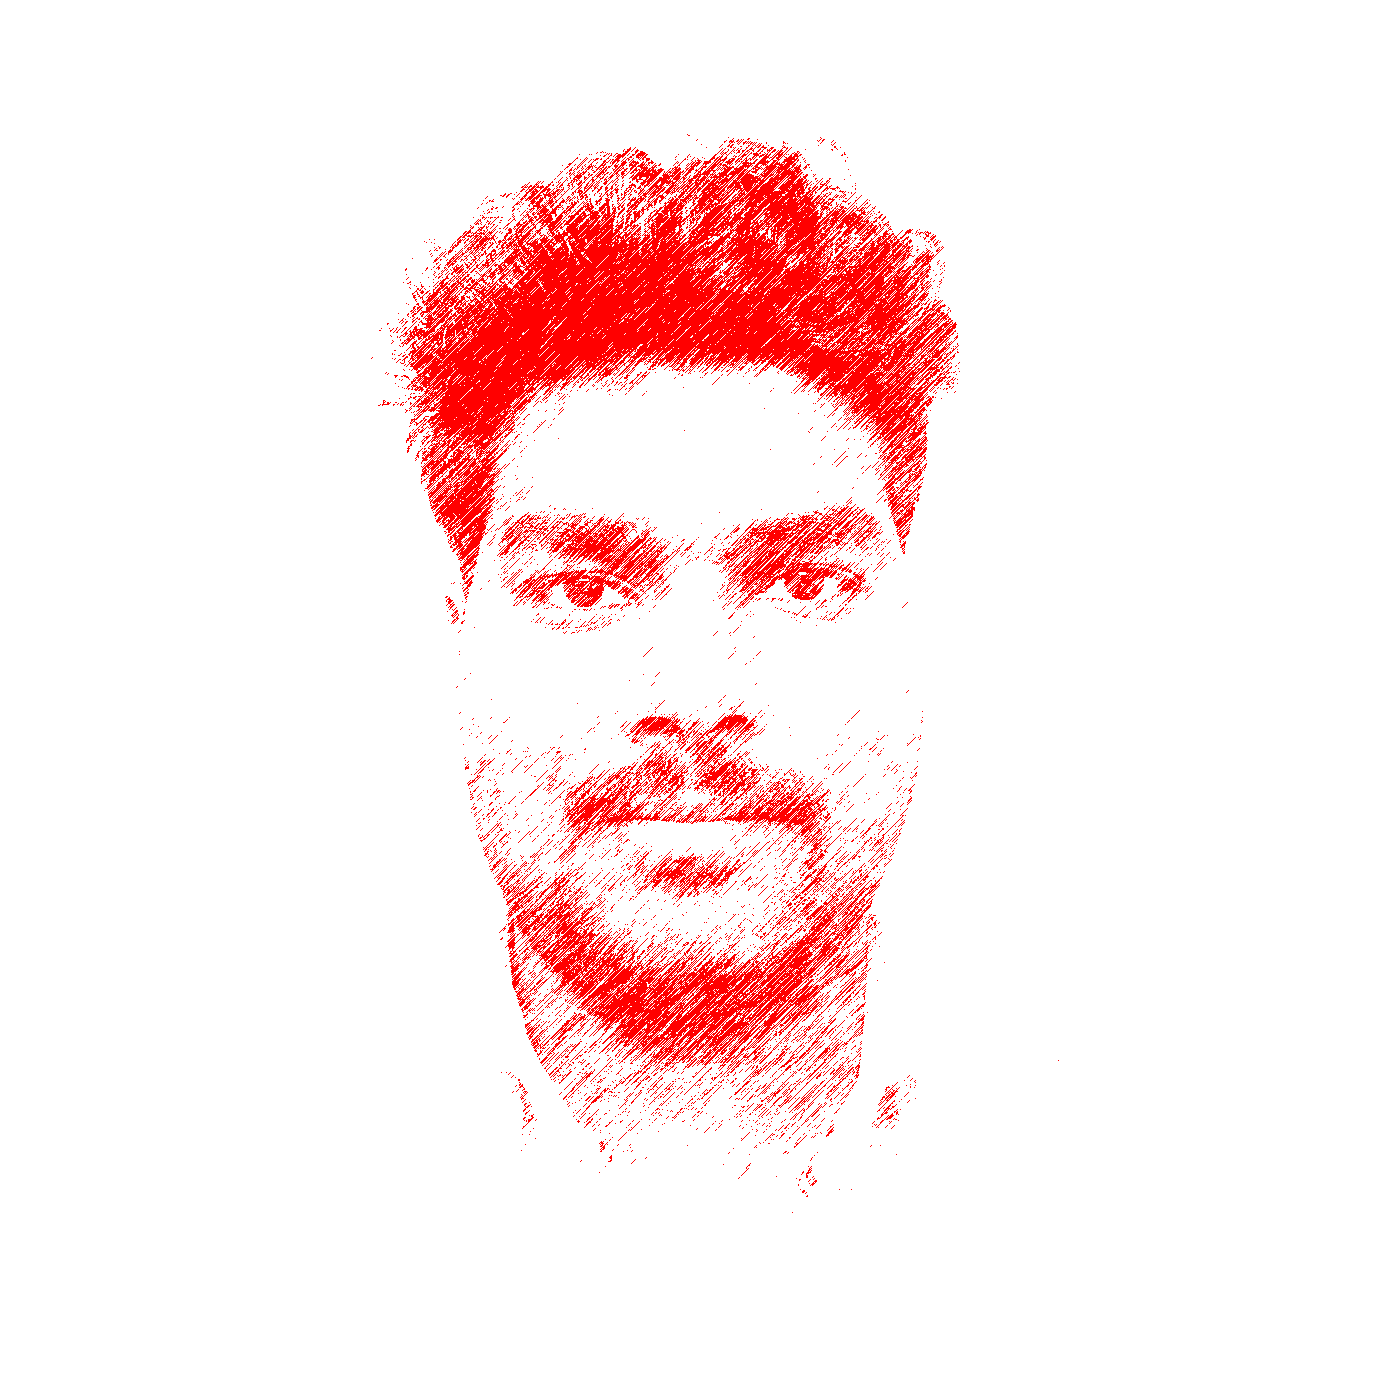
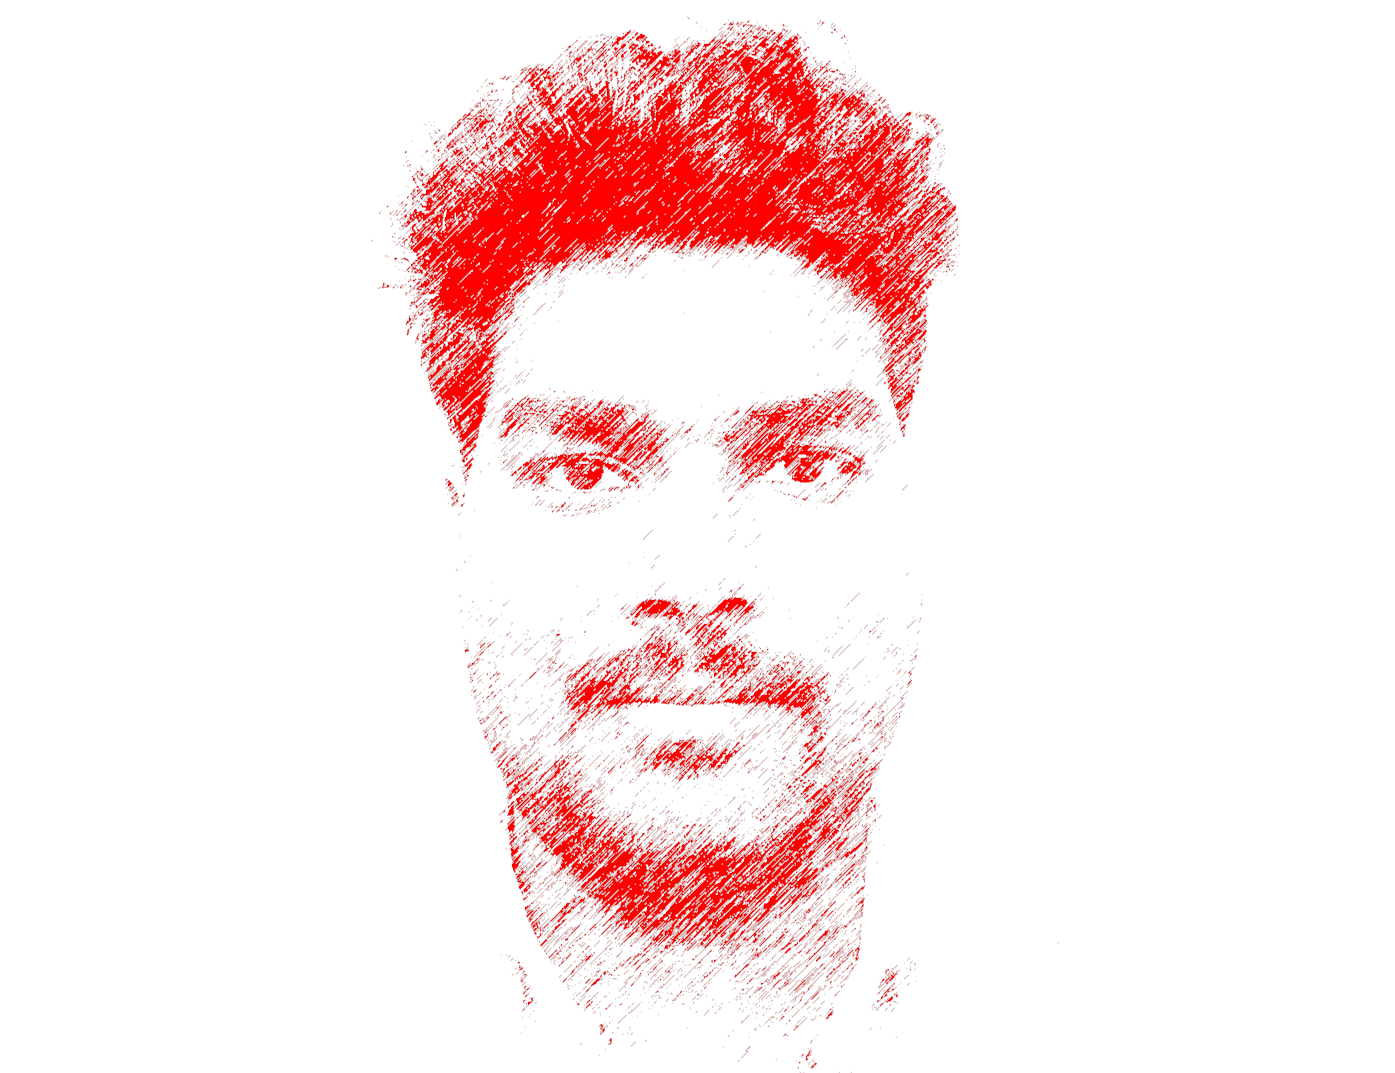
navbar and heroPage

Changed region(s): [[0.2774, 0.0, 0.709, 0.4921], [0.3391, 0.4921, 0.6473, 0.9534]]

diff --git a/src/components/Drawer.tsx b/src/components/Drawer.tsx
@@ -1,22 +1,22 @@
 const Drawer = () => {
   return (
     <div className="drawer lg:drawer-open">
-  <input id="my-drawer-2" type="checkbox" className="drawer-toggle" />
-  <div className="drawer-content flex flex-col items-center justify-center">
-    {/* Page content here */}
-    <label htmlFor="my-drawer-2" className="btn btn-primary drawer-button lg:hidden">
-      Open drawer
-    </label>
-  </div>
-  <div className="drawer-side">
-    <label htmlFor="my-drawer-2" aria-label="close sidebar" className="drawer-overlay"></label>
-    <ul className="menu bg-base-200 text-base-content min-h-full w-80 p-4">
-      {/* Sidebar content here */}
-      <li>Sidebar Item 1</li>
-      <li>Sidebar Item 2</li>
-    </ul>
-  </div>
-</div>
+      <input id="my-drawer-2" type="checkbox" className="drawer-toggle" />
+      <div className="drawer-content flex flex-col items-center justify-center">
+        {/* Page content here */}
+        <label htmlFor="my-drawer-2" className="btn btn-primary drawer-button lg:hidden">
+          Open drawer
+        </label>
+      </div>
+      <div className="drawer-side absolute top-0 left-0">
+        <label htmlFor="my-drawer-2" aria-label="close sidebar" className="drawer-overlay"></label>
+        <ul className="menu bg-base-200 text-base-content min-h-full w-80 p-4">
+          {/* Sidebar content here */}
+          <li>Sidebar Item 1</li>
+          <li>Sidebar Item 2</li>
+        </ul>
+      </div>
+    </div>
   )
 }
 

diff --git a/src/components/Herosection.tsx b/src/components/Herosection.tsx
@@ -1,0 +1,32 @@
+import { CgScrollH, CgScrollV } from "react-icons/cg"
+import { FaMouse } from "react-icons/fa"
+import { FaScrollTorah } from "react-icons/fa6"
+import { MdMouse } from "react-icons/md"
+import { PiMouseScroll, PiMouseScrollFill } from "react-icons/pi"
+
+const Herosection = () => {
+  return (
+    <div className=' flex justify-between items-center gap-10 flex-wrap h-screen'>
+        <div className=" flex flex-col gap-4 transform -translate-y-20">
+            <div className=" lg:text-4xl md:text-2xl">
+                <p></p>
+                <p>Hi, I'm a </p>
+                <p className=" lg:text-6xl">Full Stack Developer</p>
+                <p className=" lg:text-5xl"> & 3D Modelling Artist </p>
+            </div>
+            <div className=" text-lg lg:w-full">
+                <p>I'm Bittu Kumar, a full stack developer current holds over 2 years of experence in development field.</p>
+            </div>
+        </div>
+        <div className=' absolute md:right-0 md:w-1/2 h-screen'>
+            <img className=' pointer-events-none object-contain opacity-40' src='/me.png' alt='' />
+        </div>
+        <div className=" absolute left-0 bottom-2 w-full flex justify-center">
+            <CgScrollV className=" absolute text-2xl"/>
+            <CgScrollV className=" text-2xl animate-ping"/>
+        </div>
+    </div>
+  )
+}
+
+export default Herosection

diff --git a/src/components/Navbar.tsx b/src/components/Navbar.tsx
@@ -1,0 +1,27 @@
+
+const Navbar = () => {
+    return (
+        <div className="navbar bg-white bg-opacity-40 backdrop-blur-sm shadow-md z-50 sticky top-0">
+            <div className="flex-1">
+                <p className="btn btn-ghost text-xl">Bittu Kumar.</p>
+            </div>
+            <div className="flex-none">
+                <button className="btn btn-square btn-ghost">
+                    <svg
+                        xmlns="http://www.w3.org/2000/svg"
+                        fill="none"
+                        viewBox="0 0 24 24"
+                        className="inline-block h-5 w-5 stroke-current">
+                        <path
+                            strokeLinecap="round"
+                            strokeLinejoin="round"
+                            strokeWidth="2"
+                            d="M5 12h.01M12 12h.01M19 12h.01M6 12a1 1 0 11-2 0 1 1 0 012 0zm7 0a1 1 0 11-2 0 1 1 0 012 0zm7 0a1 1 0 11-2 0 1 1 0 012 0z"></path>
+                    </svg>
+                </button>
+            </div>
+        </div>
+    )
+}
+
+export default Navbar

diff --git a/src/components/Footer.tsx b/src/components/Footer.tsx
@@ -1,0 +1,18 @@
+import { IoLogoGithub } from "react-icons/io";
+const Footer = () => {
+    return (
+        <footer className="footer bg-neutral text-neutral-content items-center p-4">
+            <aside className="grid-flow-col items-center flex gap-5">
+                <img src="/me.png" alt="Bittu Kumar" className="w-10 rounded-xl transform scale-125" />
+                <p>Copyright © 2023 - {new Date().getFullYear()} - All right reserved</p>
+            </aside>
+            <nav className="grid-flow-col gap-4 md:place-self-center md:justify-self-end">
+                <IoLogoGithub  className=" h-6 w-fit" />
+                <IoLogoGithub  className=" h-6 w-fit" />
+                <IoLogoGithub  className=" h-6 w-fit" />
+            </nav>
+        </footer>
+    )
+}
+
+export default Footer

diff --git a/src/components/Timeline.tsx b/src/components/Timeline.tsx
@@ -17,7 +17,7 @@ const Timeline = () => {
                                 clipRule="evenodd" />
                         </svg>
                     </div>
-                    <div className="timeline-end mb-10">
+                    <div className="timeline-end mb-10 md:w-96 lg:w-[30rem] text-justify">
                         <time className="font-mono italic">January 2023</time>
                         <div className="text-lg font-black">BosonQ Psi PVT. LTD.</div>
                         <p className=" text-md">With 2 years of experience at this company, I play a key role in the software team, handling both frontend and backend

diff --git a/src/routes/dashboard/Dashboard.tsx b/src/routes/dashboard/Dashboard.tsx
@@ -1,12 +1,19 @@
 import Drawer from "../../components/Drawer"
+import Footer from "../../components/Footer"
+import Herosection from "../../components/Herosection"
+import Navbar from "../../components/Navbar"
 import Timeline from "../../components/Timeline"
 
 const Dashboard = () => {
-  return (
-    <>
-        <Drawer />
-        <Timeline />
-    </>
+  return (<>
+    <Navbar />
+    <div className=" mx-6">
+      <Herosection />
+      {/* <Drawer /> */}
+      <Timeline />
+    </div>
+    <Footer/>
+  </>
   )
 }
 
